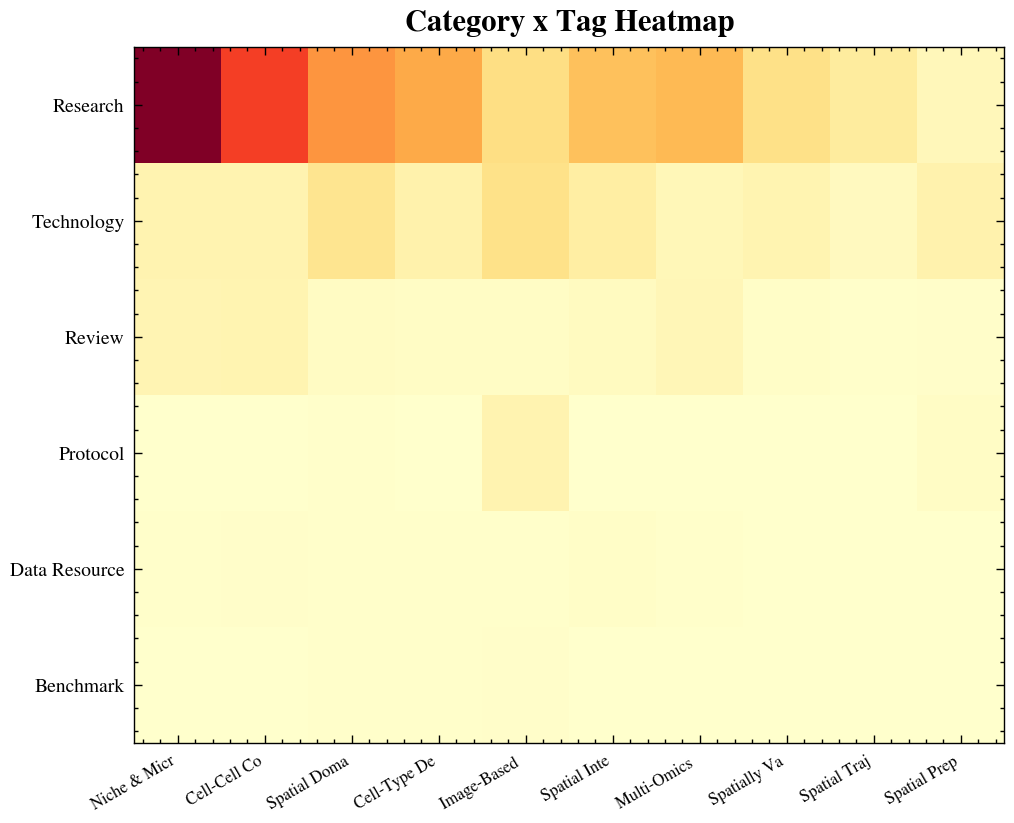
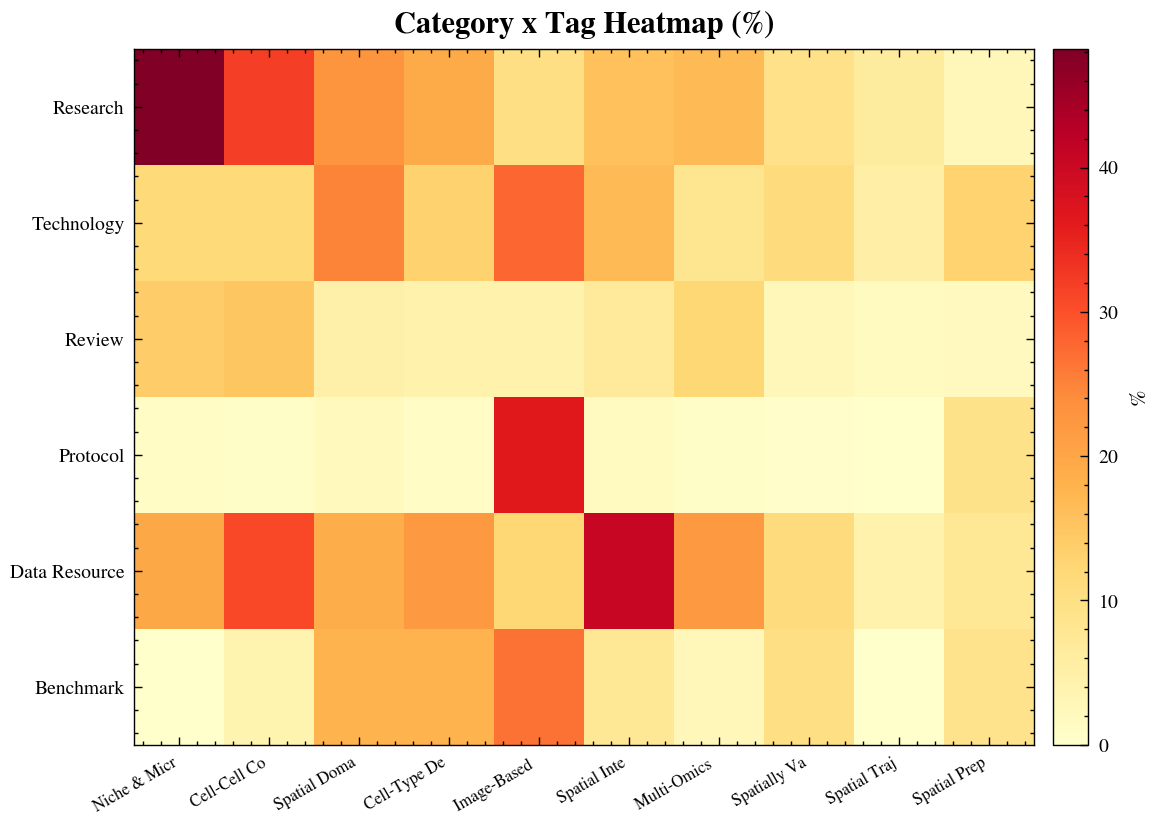
all figures!

diff --git a/report/scripts/fig1_dataset_overview.py b/report/scripts/fig1_dataset_overview.py
@@ -219,21 +219,22 @@ _s("D", 5, 3.5, lambda ax: (
     ax.set_xlabel("Tags per Article", fontsize=10), ax.set_ylabel("Count", fontsize=10),
     ax.set_title("Tags per Article", fontweight="bold", fontsize=11)))
 
-# E: Category x Tag Heatmap
+# E: Category x Tag Heatmap (normalized by category, same as composite)
 _cat_order = ["Research","Technology","Review","Protocol","Data Resource","Benchmark"]
 _tag_order = [t for t,_ in _ATC.most_common(10)]
 _ct = np.zeros((len(_cat_order), len(_tag_order)))
-for _, row in _DF.iterrows():
-    cat = str(row["category"])
-    if cat in _cat_order:
-        tags = set(str(row["tags"]).split("; ")) if pd.notna(row["tags"]) else set()
-        for j, tg in enumerate(_tag_order):
-            if tg in tags: _ct[_cat_order.index(cat), j] += 1
-_s("E", 5, 4, lambda ax: (
-    ax.imshow(_ct, aspect="auto", cmap="YlOrRd"),
+for i, cat in enumerate(_cat_order):
+    _sub = _DF[_DF["category"]==cat]
+    _ct_tags = Counter(_sc(_sub["tags"]))
+    _total = len(_sub)
+    for j, tag in enumerate(_tag_order):
+        _ct[i, j] = _ct_tags.get(tag, 0) / _total * 100 if _total > 0 else 0
+import matplotlib.pyplot as _plt
+_s("E", 5.5, 4, lambda ax: (
+    [_plt.colorbar(ax.imshow(_ct, aspect="auto", cmap="YlOrRd"), ax=ax, fraction=0.04, pad=0.02, label="%")],
     ax.set_xticks(range(len(_tag_order))), ax.set_xticklabels([t[:12] for t in _tag_order], rotation=30, ha="right", fontsize=6),
     ax.set_yticks(range(len(_cat_order))), ax.set_yticklabels(_cat_order, fontsize=7),
-    ax.set_title("Category x Tag Heatmap", fontweight="bold", fontsize=11)))
+    ax.set_title("Category x Tag Heatmap (%)", fontweight="bold", fontsize=11)))
 
 # F: Technology
 _tc2 = Counter(_sc(_DF["technology"])).most_common(8)
